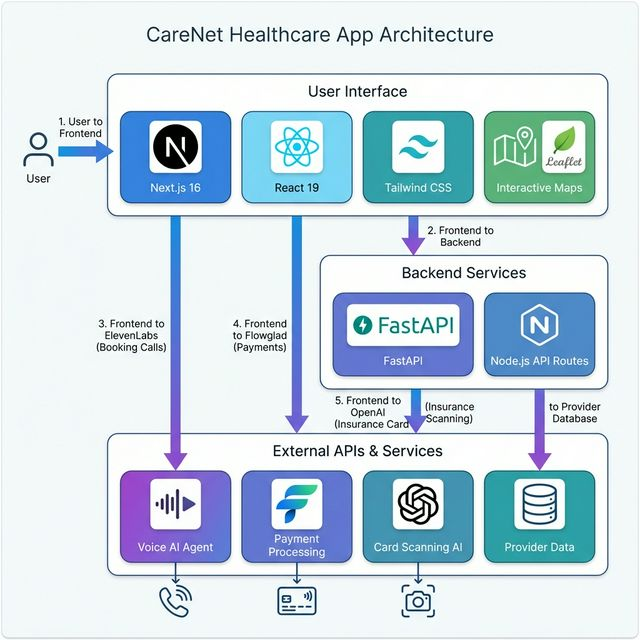
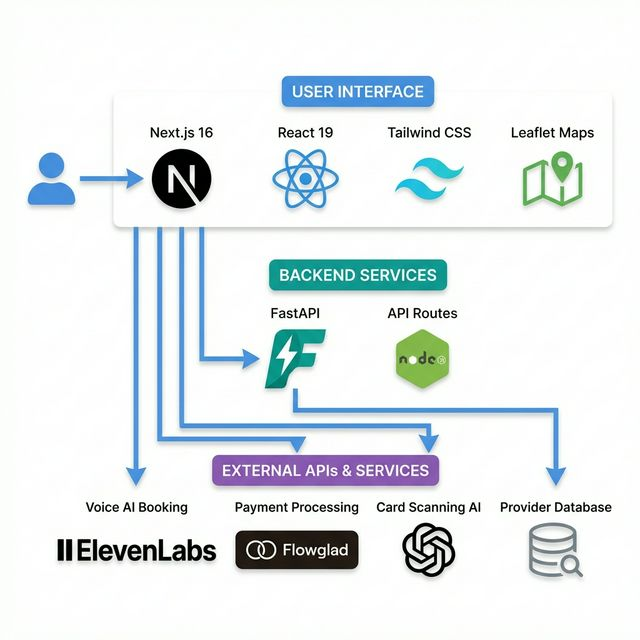
Add comprehensive README and architecture diagram

diff --git a/README.md b/README.md
@@ -1,0 +1,187 @@
+# 🏥 CareNet
+
+**Find care you can afford, fast.**
+
+CareNet is an AI-powered healthcare navigation platform that helps Americans find nearby medical facilities, understand their insurance coverage, and book appointments—all in seconds.
+
+![CareNet Architecture](carenet_architecture.png)
+
+---
+
+## 🚨 The Problem
+
+**Healthcare in America is broken—not because care doesn't exist, but because people can't find or afford it.**
+
+- **32 million Americans** are uninsured, and millions more are underinsured
+- **66% of bankruptcies** in the US are tied to medical bills
+- **1 in 4 Americans** skip care due to cost concerns
+- Emergency room visits average **$2,200** but can exceed **$20,000** for out-of-network facilities
+- **Language barriers** prevent 25 million Americans from effectively navigating healthcare
+
+When you're injured or sick, the last thing you should worry about is whether you can afford treatment—or if the hospital even accepts your insurance.
+
+---
+
+## 💡 Our Solution
+
+CareNet puts healthcare transparency in your pocket:
+
+### 🗺 Real-Time Hospital Finder
+See every emergency room, urgent care, dentist, and physical therapy clinic near you on an interactive map. Filter by facility type and see real-time distance and estimated travel time.
+
+### 💰 Instant Cost Estimates
+Before you walk in the door, know what you'll pay. CareNet shows whether a facility is **in-network** or **out-of-network** for your specific insurance plan, with estimated copays ranging from $100 to $3,500+.
+
+### 📷 AI Insurance Card Scanner
+Don't know your insurance details? Just snap a photo of your insurance card. Our AI extracts your provider, plan type, and member information in seconds—no manual entry required.
+
+### 📞 Voice AI Booking Agent
+Can't navigate phone trees? Our ElevenLabs-powered AI agent calls hospitals on your behalf to schedule appointments. Just tell it when you're available, and it handles the rest.
+
+### 🌍 10+ Languages Supported
+Healthcare shouldn't require English fluency. CareNet supports Spanish, Chinese, Russian, Bengali, Haitian Creole, Korean, Arabic, French, Urdu, and more.
+
+### 💳 Integrated Payments
+Pay your copay directly through the app with Flowglad-powered secure payment processing. No surprises at checkout.
+
+---
+
+## 🎯 Key Features
+
+| Feature | Description |
+|---------|-------------|
+| **Interactive Map** | Leaflet-powered map showing 200+ NYC healthcare providers |
+| **Smart Filtering** | Filter by emergency rooms, urgent care, dentists, or physical therapy |
+| **Insurance Verification** | Real-time in-network/out-of-network status for major insurers |
+| **Cost Transparency** | Estimated copays based on your specific plan |
+| **AI Card Scanning** | OpenAI Vision extracts insurance info from card photos |
+| **Voice Booking** | ElevenLabs AI agent makes appointment calls for you |
+| **Multilingual** | Full UI translation in 10+ languages |
+| **Calendar Integration** | Export appointments to Google Calendar or Apple Calendar |
+| **Payment Processing** | Secure copay payments via Flowglad |
+
+---
+
+## 🛠 How It Works
+
+### 1. Tell Us About Your Emergency
+Select your injury type (broken bone, chest pain, dental emergency, etc.) and severity level. CareNet uses this to recommend the right type of facility.
+
+### 2. Scan Your Insurance Card
+Take a photo of your insurance card or manually enter your information. Our AI identifies your provider (Anthem, Aetna, United, etc.) and plan type.
+
+### 3. Find Nearby Facilities
+See all matching facilities on the map, sorted by distance. Each card shows:
+- Distance and estimated travel time
+- In-network or out-of-network status
+- Estimated cost range for your visit
+- Available services and specialties
+
+### 4. Book Your Appointment
+Click "Book with CareNet Agent" and our AI voice agent will call the hospital to schedule your appointment. No hold times, no phone trees—just a confirmed booking.
+
+### 5. Pay Your Copay
+Pay your copay securely through the app before you arrive. No surprise bills.
+
+---
+
+## 🏗 Tech Stack
+
+| Layer | Technology |
+|-------|------------|
+| **Frontend** | Next.js 16, React 19, Tailwind CSS |
+| **Backend** | FastAPI (Python) |
+| **Maps** | Leaflet.js with OpenStreetMap |
+| **AI Card Scanning** | OpenAI GPT-4 Vision |
+| **Voice Agent** | ElevenLabs Conversational AI |
+| **Payments** | Flowglad |
+| **Database** | JSON (demo), designed for PostgreSQL |
+
+---
+
+## 🚀 Getting Started
+
+### Prerequisites
+- Node.js 18+
+- Python 3.9+
+- npm or pnpm
+
+### Installation
+
+```bash
+# Clone the repository
+git clone https://github.com/aaronmunford/CareNet.git
+cd CareNet
+
+# Install frontend dependencies
+cd frontend
+npm install
+
+# Install backend dependencies
+cd ../backend
+pip install -r requirements.txt
+
+# Start the backend
+uvicorn main:app --reload --port 8000
+
+# In another terminal, start the frontend
+cd frontend
+npm run dev
+```
+
+### Environment Variables
+
+Create `frontend/.env.local`:
+```
+DEDALUS_API_KEY=your_openai_api_key
+ELEVENLABS_API_KEY=your_elevenlabs_key
+ELEVENLABS_AGENT_ID=your_agent_id
+FLOWGLAD_SECRET_KEY=your_flowglad_key
+```
+
+---
+
+## 🎬 Demo Scenario
+
+**Meet Raymond, a 77-year-old resident of Harlem.**
+
+Raymond slipped on ice and thinks he may have broken his arm. He's in pain and needs help fast.
+
+1. **Opens CareNet** on his phone
+2. **Scans his Anthem insurance card** with the camera
+3. **Selects "Broken bone / severe injury"** as his emergency type
+4. **Sees two nearby options:**
+   - NYC Health + Hospitals/Harlem: 0.5 mi, Out of Network, ~$3,500
+   - Mount Sinai Morningside: 0.6 mi, In Network, ~$150
+5. **Clicks "Book with CareNet Agent"** on Mount Sinai
+6. **The AI agent calls** and books his appointment for today
+7. **Pays his $150 copay** through the app
+8. **Gets directions** and arrives at Mount Sinai
+
+**Result:** Raymond saved $3,350 and got faster care—all because he knew which hospital to choose.
+
+---
+
+## 👥 Team
+
+Built with ❤ at DevFest 2026
+
+---
+
+## 📄 License
+
+MIT License - feel free to use this code to help make healthcare more accessible.
+
+---
+
+## 🙏 Acknowledgments
+
+- **ElevenLabs** for conversational AI that books appointments
+- **Flowglad** for seamless payment processing
+- **OpenAI** for vision AI that reads insurance cards
+- **OpenStreetMap** for mapping data
+- All the healthcare workers who inspired this project
+
+---
+
+**CareNet: Because healthcare shouldn't be a guessing game.**
